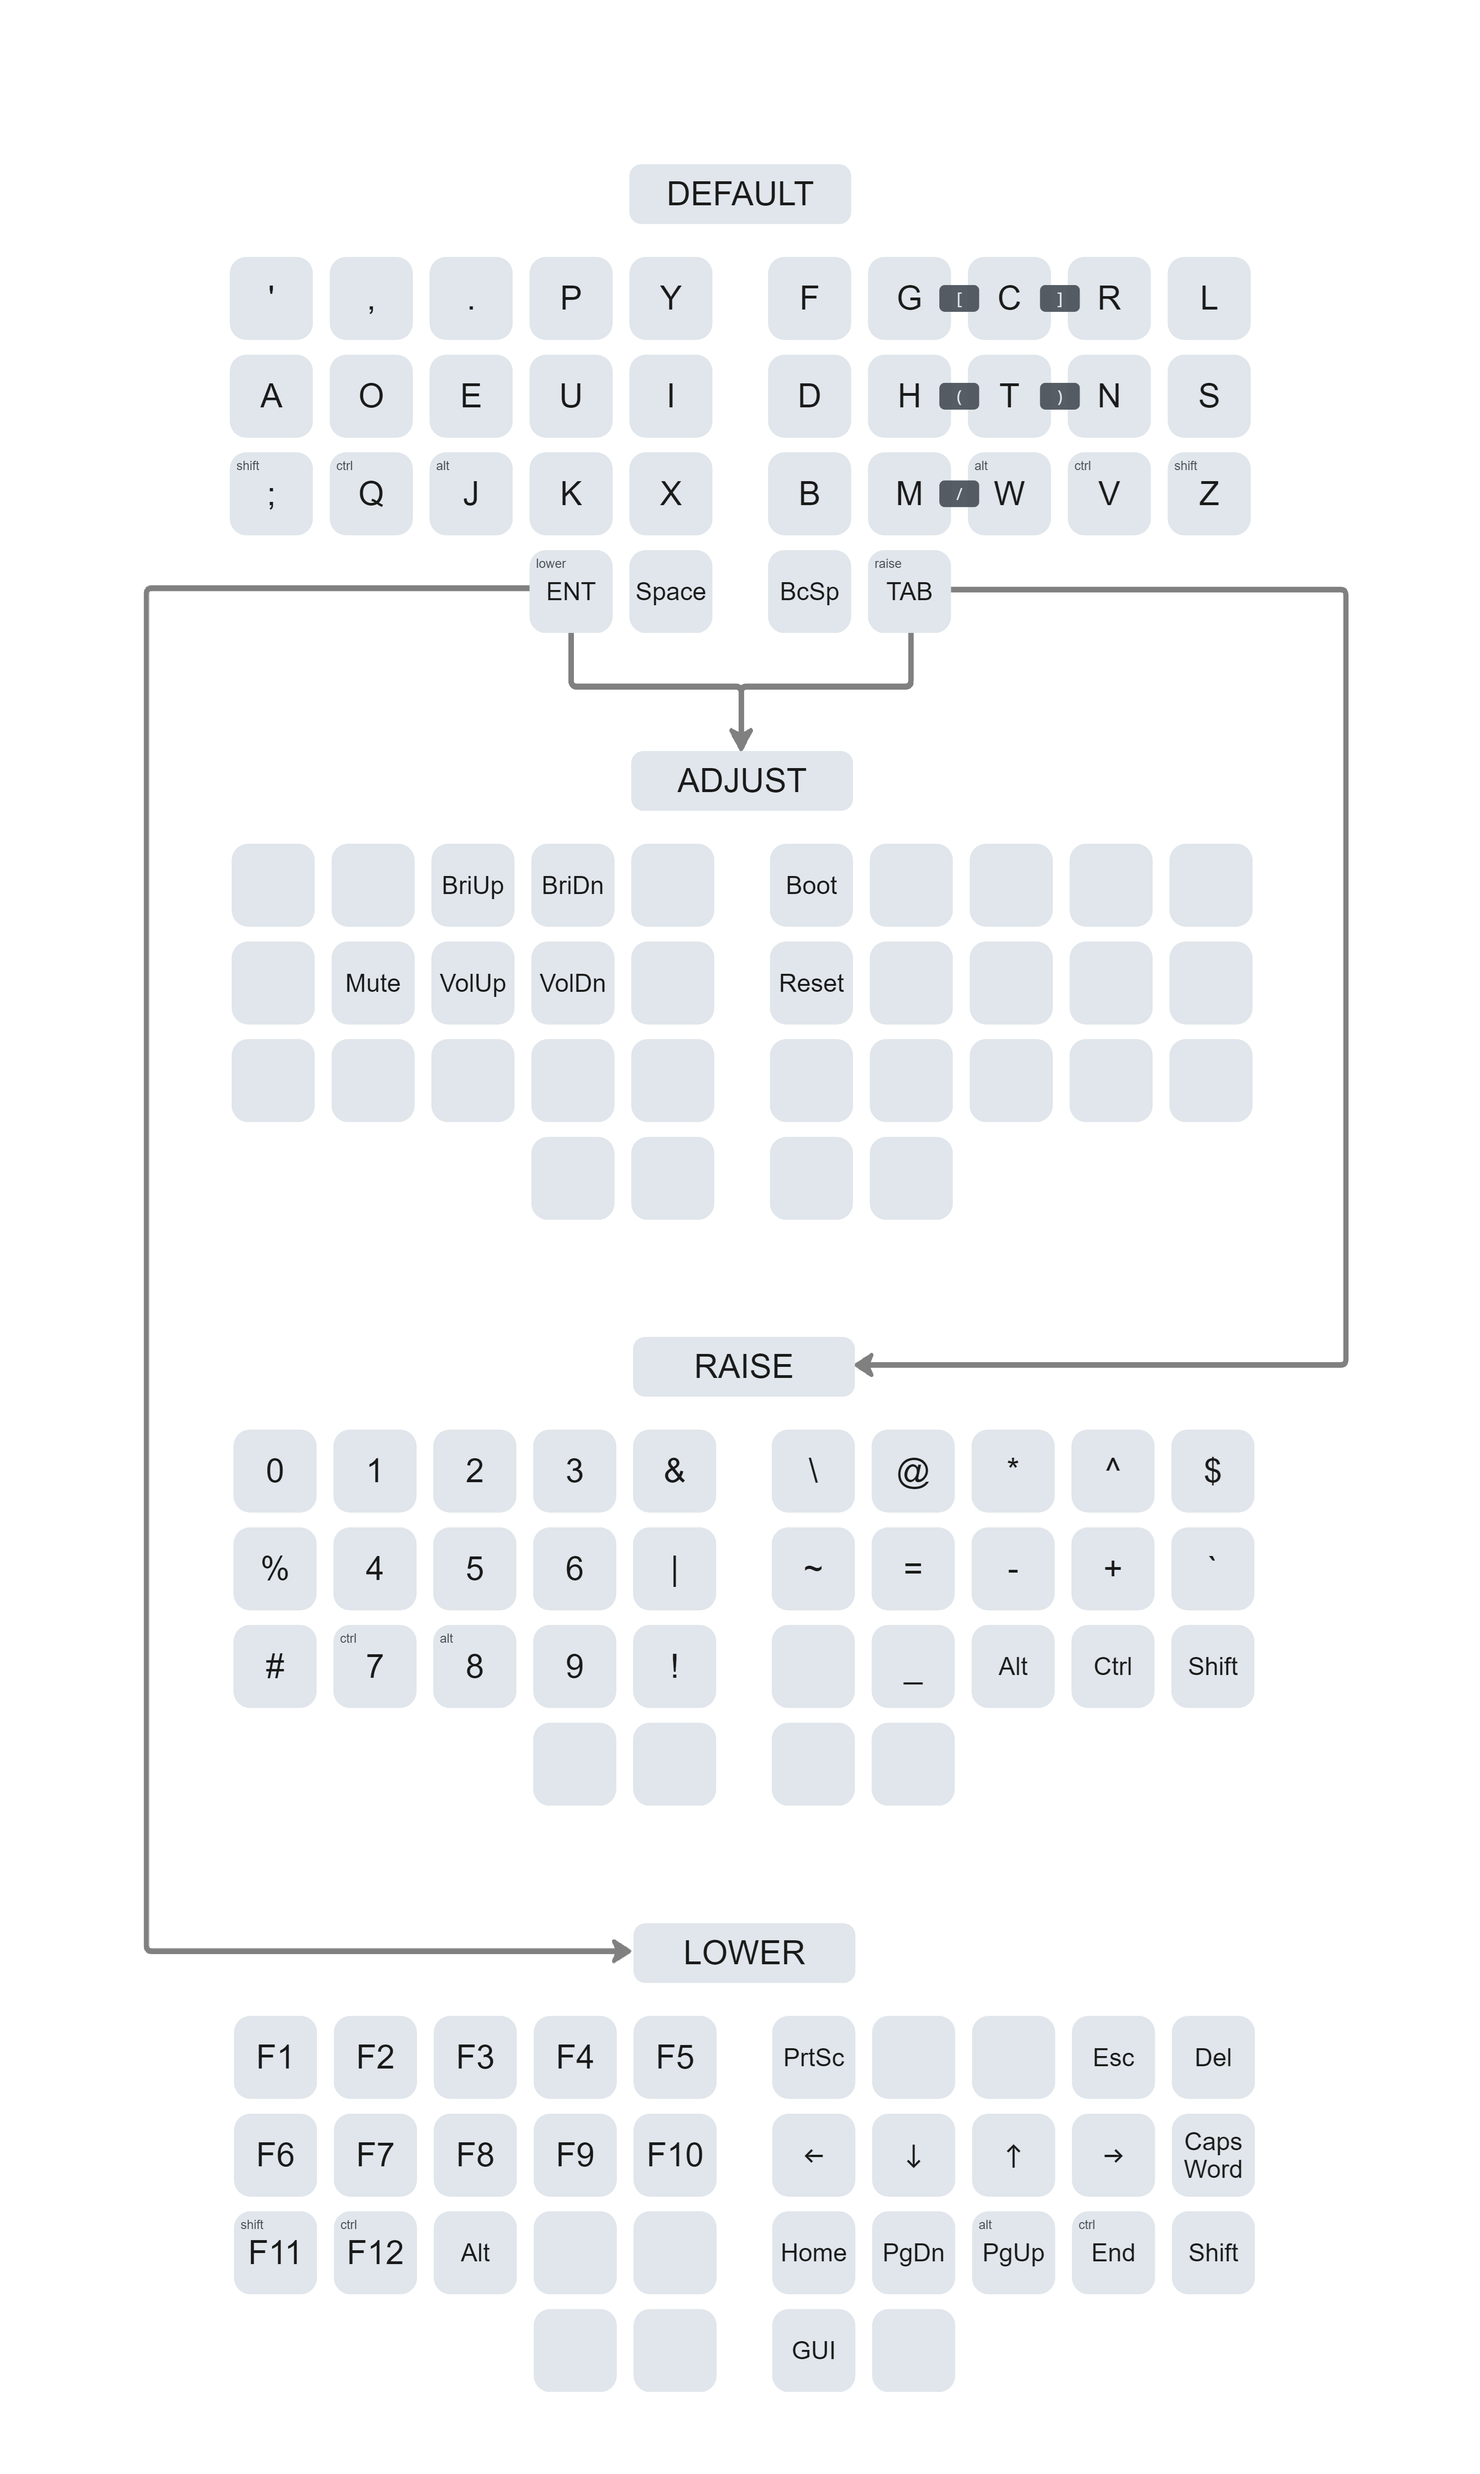
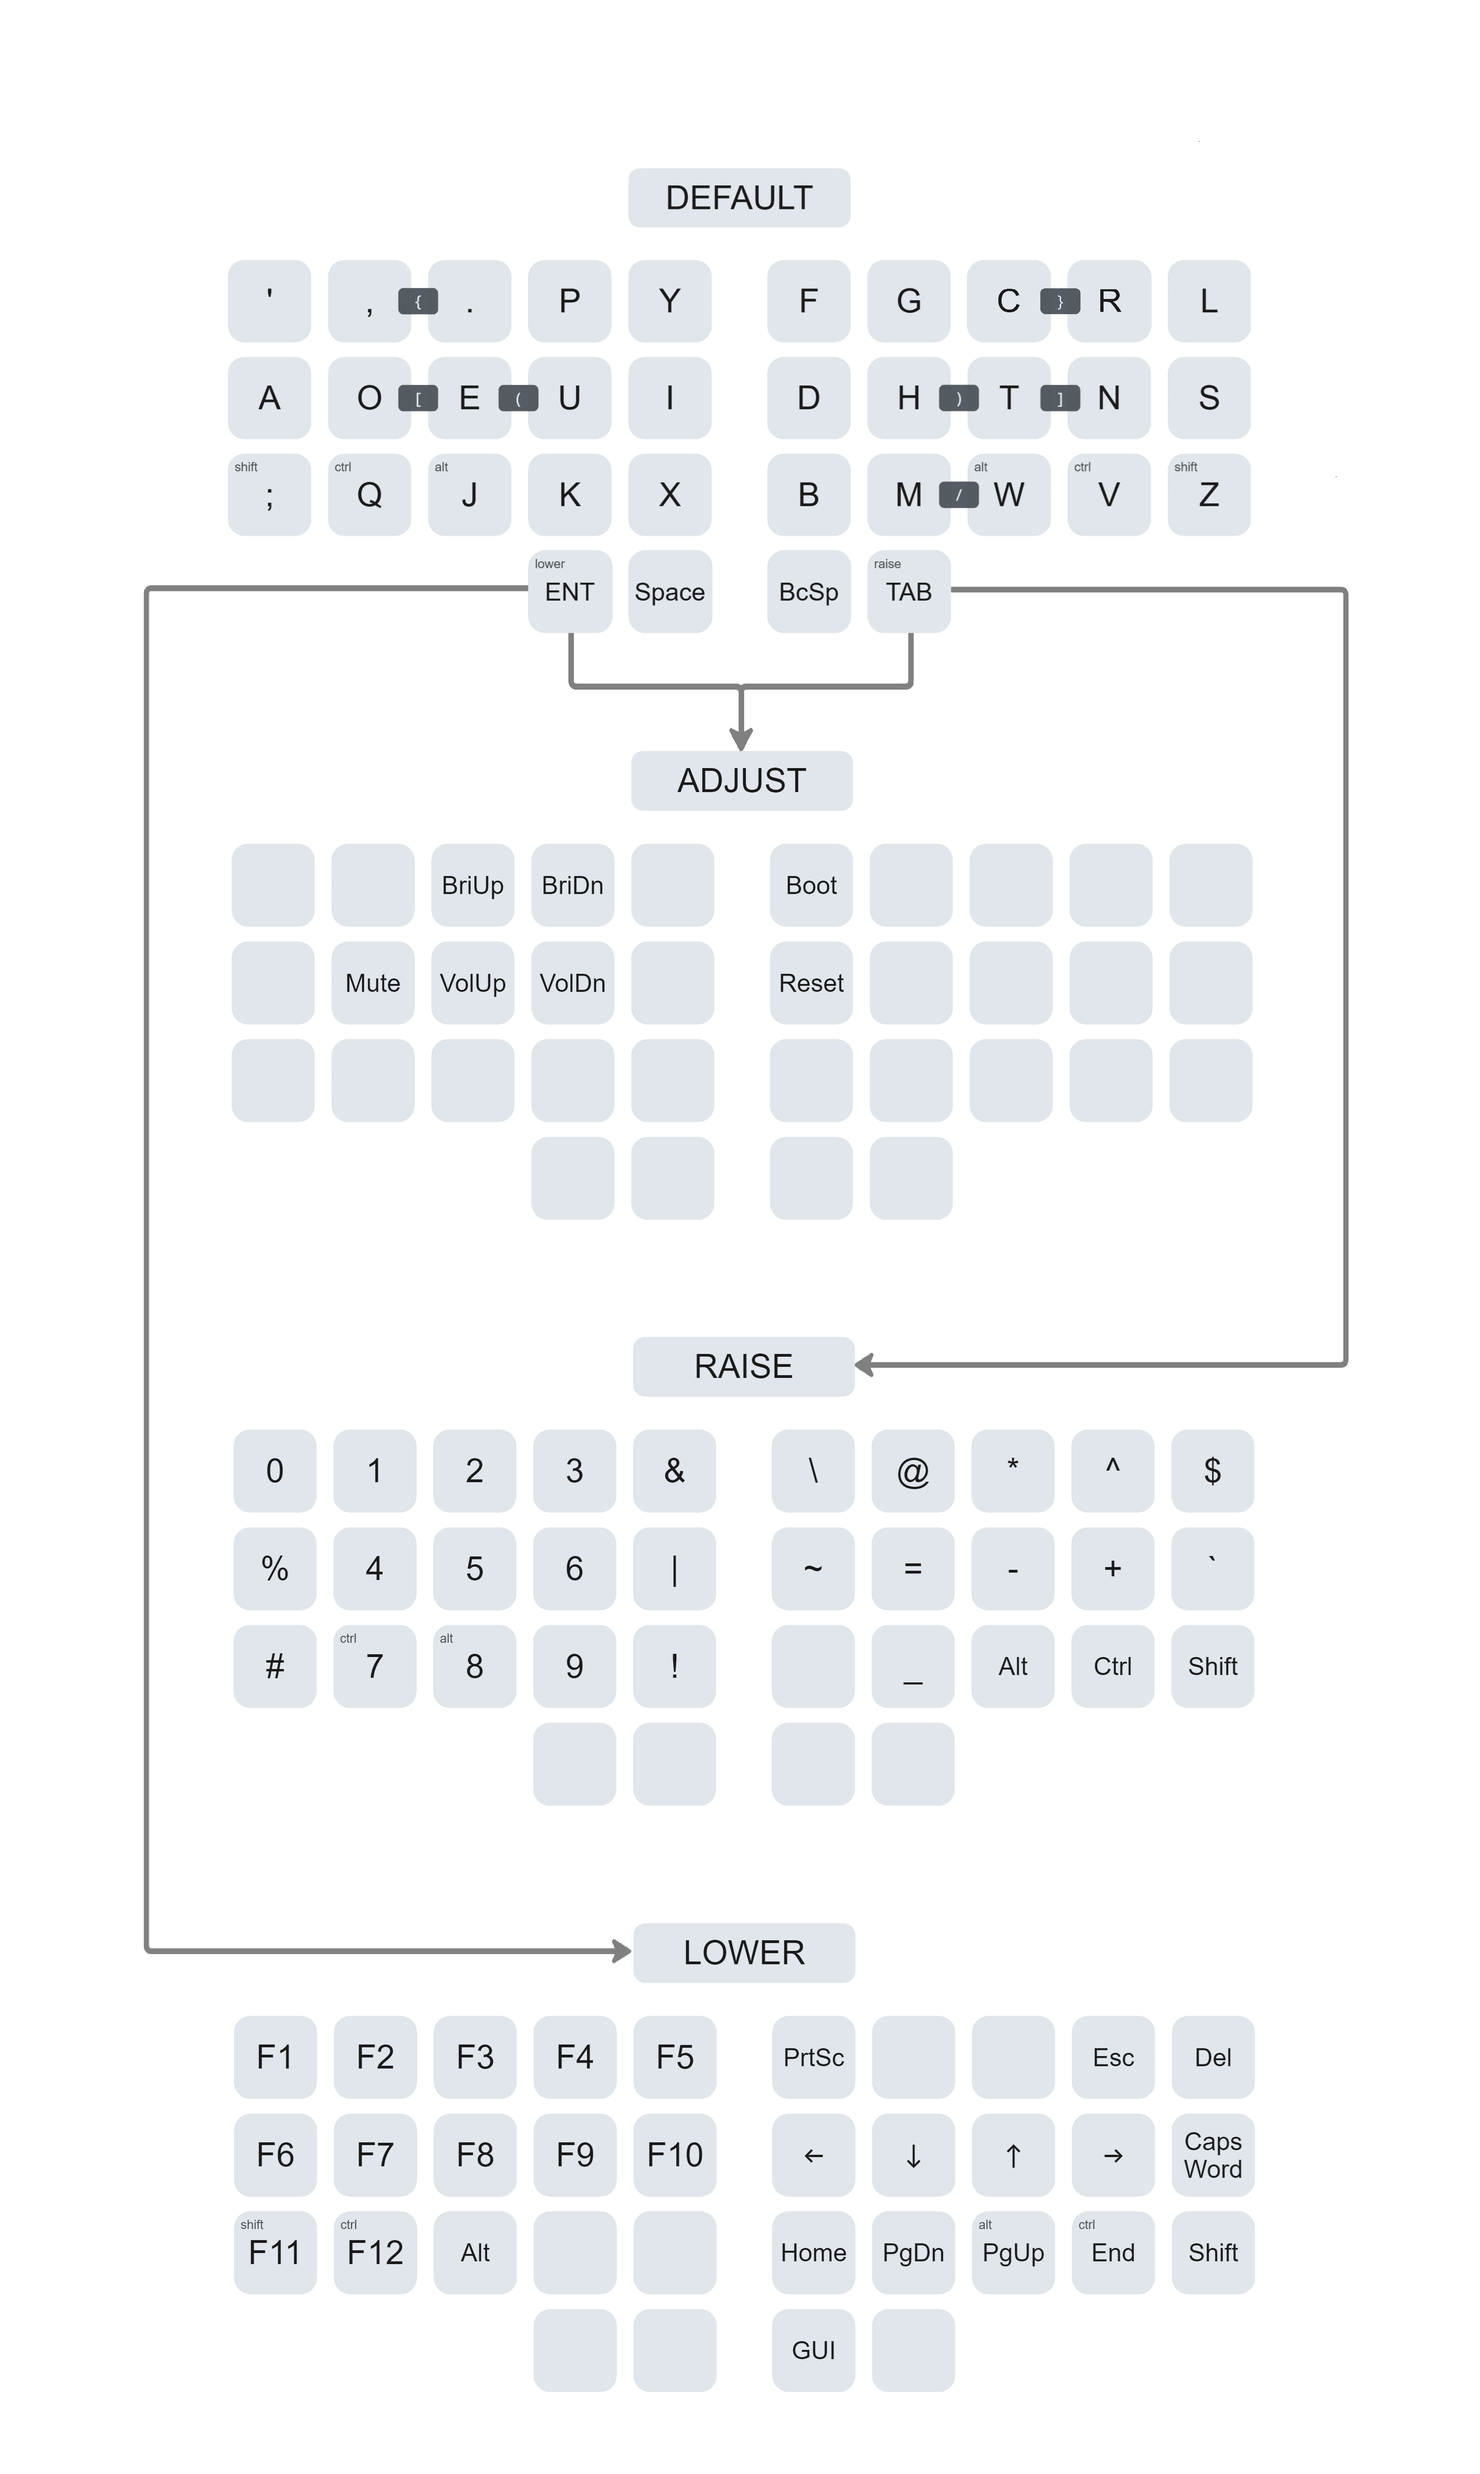
separate bracket placement

diff --git a/config/keymap.c b/config/keymap.c
@@ -60,24 +60,30 @@ bool get_hold_on_other_key_press(uint16_t keycode, keyrecord_t *record) {
 
 // Combos
 enum combos {
-    GC_LBRC,
-    CR_RBRC,
-    HT_LPRN,
-    TN_RPRN,
+    EU_LPRN,
+    HT_RPRN,
+    OE_LBRC,
+    TN_RBRC,
+    DOTCOM_LCBR,
+    CR_RCBR,
     MW_SLSH
 };
 
-const uint16_t PROGMEM gc_combo[] = {KC_G, KC_C, COMBO_END};
-const uint16_t PROGMEM cr_combo[] = {KC_C, KC_R, COMBO_END};
+const uint16_t PROGMEM eu_combo[] = {KC_E, KC_U, COMBO_END};
 const uint16_t PROGMEM ht_combo[] = {KC_H, KC_T, COMBO_END};
+const uint16_t PROGMEM oe_combo[] = {KC_O, KC_E, COMBO_END};
 const uint16_t PROGMEM tn_combo[] = {KC_T, KC_N, COMBO_END};
+const uint16_t PROGMEM dotcom_combo[] = {KC_DOT, KC_COMM, COMBO_END};
+const uint16_t PROGMEM cr_combo[] = {KC_C, KC_R, COMBO_END};
 const uint16_t PROGMEM mw_combo[] = {KC_M, RALT_T(KC_W), COMBO_END};
 
 combo_t key_combos[] = {
-    [GC_LBRC] = COMBO(gc_combo, KC_LBRC),
-    [CR_RBRC] = COMBO(cr_combo, KC_RBRC),
-    [HT_LPRN] = COMBO(ht_combo, KC_LPRN),
-    [TN_RPRN] = COMBO(tn_combo, KC_RPRN),
+    [EU_LPRN] = COMBO(eu_combo, KC_LPRN),
+    [HT_RPRN] = COMBO(ht_combo, KC_RPRN),
+    [OE_LBRC] = COMBO(oe_combo, KC_LBRC),
+    [TN_RBRC] = COMBO(tn_combo, KC_RBRC),
+    [DOTCOM_LCBR] = COMBO(dotcom_combo, KC_LCBR),
+    [CR_RCBR] = COMBO(cr_combo, KC_RCBR),
     [MW_SLSH] = COMBO(mw_combo, KC_SLSH)
 };
 
